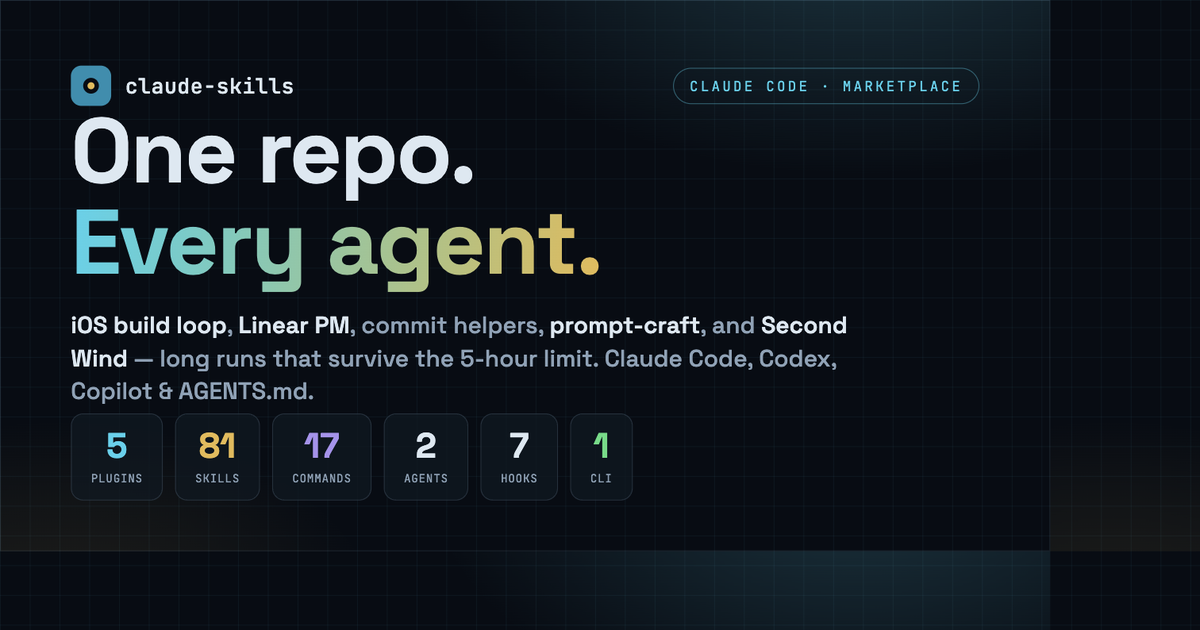
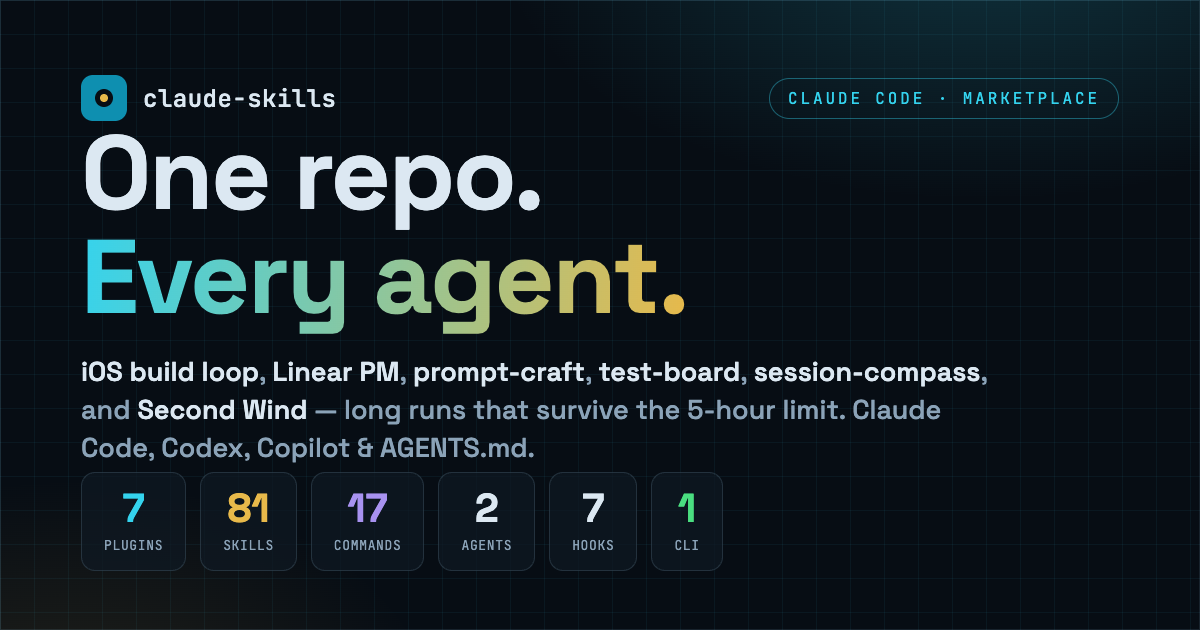
chore(site): og card lists seven plugins; regenerate og.png
Claude-Session: https://claude.ai/code/session_01VWyfakd1WegdcTUQdaYqvH

diff --git a/site/og.html b/site/og.html
@@ -51,10 +51,10 @@ h1 .g{background:linear-gradient(100deg,#34d3ee,#e8b94a);-webkit-background-clip
   </div>
   <div>
     <h1>One repo.<br><span class="g">Every agent.</span></h1>
-    <div class="lead"><b>iOS build loop</b>, <b>Linear PM</b>, commit helpers, <b>prompt-craft</b>, and <b>Second Wind</b> — long runs that survive the 5-hour limit. Claude Code, Codex, Copilot &amp; AGENTS.md.</div>
+    <div class="lead"><b>iOS build loop</b>, <b>Linear PM</b>, <b>prompt-craft</b>, <b>test-board</b>, <b>session-compass</b>, and <b>Second Wind</b> — long runs that survive the 5&#8209;hour limit. Claude Code, Codex, Copilot &amp; AGENTS.md.</div>
   </div>
   <div class="stats">
-    <div class="s"><div class="n">5</div><div class="l">Plugins</div></div>
+    <div class="s"><div class="n">7</div><div class="l">Plugins</div></div>
     <div class="s"><div class="n">81</div><div class="l">Skills</div></div>
     <div class="s"><div class="n">17</div><div class="l">Commands</div></div>
     <div class="s"><div class="n">2</div><div class="l">Agents</div></div>
